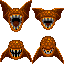
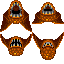
Aliens voltant pels escenaris

diff --git a/GameData.h b/GameData.h
@@ -15,7 +15,7 @@ private:
 	const static char* TILESHEET_EXT;
 
 	/* Sprites */
-	const static int NUM_SPRITES = 4;		// TOCHANGE: modificar depenent del numero de sprites carregats
+	const static int NUM_SPRITES = 5;		// TOCHANGE: modificar depenent del numero de sprites carregats
 	const static char* SPRITE_EXT;
 
 	std::vector<TileSheet> tileSheets;				/* All loaded tile sheets */
@@ -26,16 +26,13 @@ public:
 	/* TileSheet indexes */		// TOCHANGE: afegir indexs de tots els tile sheets carregats
 	const static int LEVEL1_TILES_INDEX = 0;
 	const static int LEVEL1_MOBILETILES_INDEX = 1;
-	//const static int LEVEL2_TILES_INDEX = 2;
-	//const static int LEVEL2_MOBILETILES_INDEX = 3;
-	//...
 
 	/* Sprite indexes */		// TOCHANGE: afegir indexs de tots els sprites carregats
 	const static int PLAYER1_SPRITE_INDEX = 0;
 	const static int PLAYER2_SPRITE_INDEX = 1;
 	const static int FIRE_SPRITE_INDEX = 2;
 	const static int FIRE2_SPRITE_INDEX = 3;
-	//...
+	const static int ALIEN1_SPRITE_INDEX = 4;
 
 	GameData(void);
 	~GameData(void);

diff --git a/Scene.cpp b/Scene.cpp
@@ -22,19 +22,19 @@ bool Scene::loadLevel(int level, GameData *data)
 	obstacles.push_back(go4);
 	playerShots.clear();
 	enemyShots.clear();
-	Enemy en(120.0f, 130.f, 2, 16, 16, true);
+	Enemy en(120.0f, 130.f, GameData::ALIEN1_SPRITE_INDEX, 16, 16, true);
 	en.setPhantom(false);
 	enemies.push_back(en);
 
-	Enemy en2(300.0f, 50.f, 2, 16, 16, true);
+	Enemy en2(300.0f, 50.f, GameData::ALIEN1_SPRITE_INDEX, 16, 16, true);
 	en2.setPhantom(false);
 	enemies.push_back(en2);
 
-	Enemy en3(player, 120.0f, 550.f, 2, 16, 16, true);
+	Enemy en3(player, 120.0f, 550.f, GameData::ALIEN1_SPRITE_INDEX, 16, 16, true);
 	en3.setPhantom(false);
 	enemies.push_back(en3);
 
-	Enemy en4(player, 50, 120.0f, 850.f, 2, 16, 16, true);
+	Enemy en4(player, 50, 120.0f, 850.f, GameData::ALIEN1_SPRITE_INDEX, 16, 16, true);
 	en4.setPhantom(false);
 	enemies.push_back(en4);
 

diff --git a/GameData.cpp b/GameData.cpp
@@ -54,7 +54,7 @@ void GameData::getTileSheetTileOffset(int tileSheetIndex, float *offsetX, float 
 /* Sprites */
 bool GameData::loadSprites()
 {
-	const char* filenames[NUM_SPRITES] = {"Player1", "Player2", "Fire", "Fire2"};	// TOCHANGE: afegir el nom dels sprites
+	const char* filenames[NUM_SPRITES] = {"Player1", "Player2", "Fire", "Fire2", "Alien1"};		// TOCHANGE: afegir el nom dels sprites
 	for (unsigned int i = 0; i < sprites.size(); i++) {
 		bool b = sprites[i].load(filenames[i], SPRITE_EXT);
 		if (!b) return false;

diff --git a/Bullet.cpp b/Bullet.cpp
@@ -24,7 +24,7 @@ void Bullet::update(GameData *data, std::vector<GameObject> &collisionableObject
 /* Getters */
 float Bullet::getAngleVelocity() const
 {
-	float angle = (atan2(getVY(), getVX()) * 180 / 3.1415926f) - 90.0f + 180.0f;
+	float angle = (atan2(getVY(), getVX()) * 180 / 3.1415926f) - 90.0f;
 	return angle;
 }
 

diff --git a/Player.cpp b/Player.cpp
@@ -8,7 +8,7 @@ Player::Player(const float x, const float y, const int spriteIndex, const int wi
 	: MobileGameObject(x, y, spriteIndex, width, height, isWalkable, vx, vy)
 {
 	mainWeapon = Weapon(3, 10, 30, 30, 1, 0.0f, 0.2f);
-	mainWeapon.setTicksMax(100);
+	mainWeapon.setTicksMax(30);
 	setType('p');
 }
 
